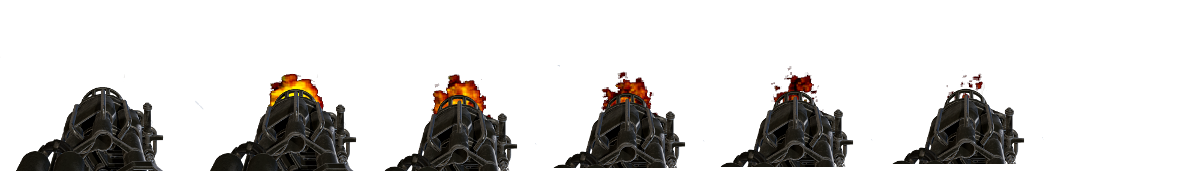
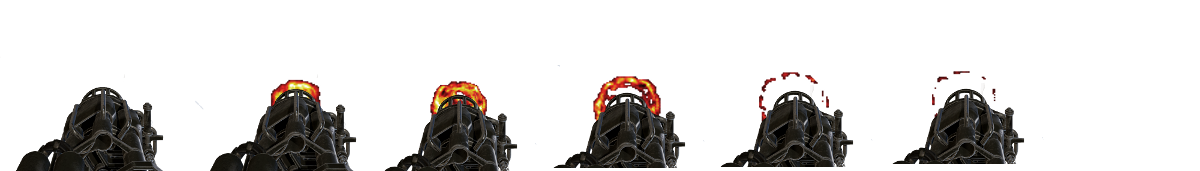
rocket and projectile wip

diff --git a/src/state/GameState.js b/src/state/GameState.js
@@ -146,6 +146,52 @@ class GameState {
       friction: 0.1
     })
 
+    //boxes
+    this.addGameObject( BoxScenery, {
+      position: { x: 0, y: 2, z: -20 },
+      size: { x: 2, y: 2, z: 2 },
+      textureUrl: '/assets/textures/wood floor 2.png',
+      textureRepeat: [ 1, 1 ],
+      friction: 0.5,
+      mass: 25,
+    })
+
+    this.addGameObject( BoxScenery, {
+      position: { x: 0, y: 4, z: -20 },
+      size: { x: 2, y: 2, z: 2 },
+      textureUrl: '/assets/textures/wood floor 2.png',
+      textureRepeat: [ 1, 1 ],
+      friction: 0.8,
+      mass: 25,
+    })
+
+    this.addGameObject( BoxScenery, {
+      position: { x: -2, y: 2, z: -20 },
+      size: { x: 2, y: 2, z: 2 },
+      textureUrl: '/assets/textures/wood floor 2.png',
+      textureRepeat: [ 1, 1 ],
+      friction: 0.8,
+      mass: 25,
+    })
+
+    this.addGameObject( BoxScenery, {
+      position: { x: -2, y: 4, z: -20 },
+      size: { x: 2, y: 2, z: 2 },
+      textureUrl: '/assets/textures/wood floor 2.png',
+      textureRepeat: [ 1, 1 ],
+      friction: 0.8,
+      mass: 25,
+    })
+
+    this.addGameObject( BoxScenery, {
+      position: { x: -2, y: 6, z: -20 },
+      size: { x: 2, y: 2, z: 2 },
+      textureUrl: '/assets/textures/wood floor 2.png',
+      textureRepeat: [ 1, 1 ],
+      friction: 0.8,
+      mass: 25,
+    })
+
     //enemies
     this.addGameObject( Soldier, {
       position: { x: 0, y: 2.25, z: -45 },
@@ -155,7 +201,7 @@ class GameState {
     })
 
     this.addGameObject( Monster, {
-      position: { x: 0, y: 2.25, z: -8 },
+      position: { x: 0, y: 2.25, z: -28 },
       patrol: false
     })
 
@@ -224,9 +270,13 @@ class GameState {
 
   getGameObjectsInRange( position, range ) {
     const rangeSquared = range * range
-    return this.gameObjects.filter( gameObject => {
-      return gameObject.sceneObject.position.distanceToSquared( position ) <= rangeSquared
-    })
+    return this.gameObjects.reduce(( results, gameObject ) => {
+      const distSq = gameObject.sceneObject.position.distanceToSquared( position )
+      if ( distSq <= rangeSquared ) {
+        results.push({ gameObject, distance: Math.sqrt( distSq )})
+      }
+      return results
+    }, [])
   }
 }
 

diff --git a/src/state/Projectile/Rocket.js b/src/state/Projectile/Rocket.js
@@ -1,23 +1,30 @@
 import BaseProjectile from './BaseProjectile'
 import SpecialEffect, { EffectTypes } from '../SpecialEffect'
+import GameObjectTypes from '../../shared/enum/GameObjectTypes'
+
+const DAMAGE_RANGE = 14
+const MAX_DAMAGE = 100
+const MAX_FORCE = 20000
 
 class Rocket extends BaseProjectile {
   constructor( props ) {
     super({
       ...props,
       textureUrl: '/assets/sprites/rocket.png',
-      textureScale: [ 1/8, 1 ],
+      textureScale: [ 1/8, 1/2 ],
       size: 1,
       mass: 15,
-      speed: 35,
+      speed: 25,
       animationDefs: {
         default: {
           frames: [
             { u: 0, v: 0 },
+            { u: 0, v: 0.5 },
           ],
-          duration: 1000,
+          duration: 100,
           isDirectional: true,
           directionalOffset: 1/8,
+          loop: true,
         },
       },
     })
@@ -29,6 +36,29 @@ class Rocket extends BaseProjectile {
     this.gameState.addGameObject( SpecialEffect, {
       effectType: EffectTypes.LargeExplosion,
       position: shiftedPosition,
+    })
+
+    this.gameState.getGameObjectsInRange( this.sceneObject.position, DAMAGE_RANGE ).forEach(({ gameObject, distance }) => {
+      const inverseNormalizedDist = 1 - ( distance / DAMAGE_RANGE )
+      if ( gameObject === this ) {
+        return
+      }
+
+      if ( gameObject.components.health ) {
+        gameObject.components.health.takeDamage( Math.floor( MAX_DAMAGE *  inverseNormalizedDist ))
+      }
+
+      if ( gameObject.sceneObject.applyCentralForce ) {
+        const direction = gameObject.sceneObject.position
+          .clone()
+          .sub ( this.sceneObject.position )
+
+        // Dampen the vertical impulse
+        if ( gameObject.type !== GameObjectTypes.Scenery ) {
+          direction.y *= 0.25
+        }
+        gameObject.sceneObject.applyCentralForce( direction.normalize().multiplyScalar( MAX_FORCE * inverseNormalizedDist ))
+      }
     })
   }
 }

diff --git a/src/state/Projectile/Fireball.js b/src/state/Projectile/Fireball.js
@@ -1,0 +1,44 @@
+import BaseProjectile from './BaseProjectile'
+import SpecialEffect, { EffectTypes } from '../SpecialEffect'
+
+const DAMAGE = 10
+
+class Fireball extends BaseProjectile {
+  constructor( props ) {
+    super({
+      ...props,
+      textureUrl: '/assets/sprites/fireball.png',
+      textureScale: [ 1/8, 1 ],
+      size: 0.5,
+      mass: 15,
+      speed: 15,
+      animationDefs: {
+        default: {
+          frames: [
+            { u: 2/8, v: 0 },
+            { u: 7/8, v: 0 },
+          ],
+          duration: 200,
+          loop: true,
+          isDirectional: true,
+          directionalOffset: 1/8,
+        },
+      },
+    })
+  }
+
+  handleCollision( otherObject ) {
+    const shiftedPosition = this.sceneObject.position.clone()
+    shiftedPosition.sub( this.direction.clone().multiplyScalar( 1 ))
+    this.gameState.addGameObject( SpecialEffect, {
+      effectType: EffectTypes.FireballImpact,
+      position: shiftedPosition,
+    })
+
+    if ( otherObject.gameObject.components.health ) {
+      otherObject.gameObject.components.health.takeDamage( DAMAGE )
+    }
+  }
+}
+
+export default Fireball

diff --git a/src/state/SpecialEffect.js b/src/state/SpecialEffect.js
@@ -8,7 +8,8 @@ export const EffectTypes = {
   EnemyHit: 'EnemyHit',
   EnemyHit2: 'EnemyHit2',
   Sparks: 'Sparks',
-  LargeExplosion: 'LargeExplosion'
+  LargeExplosion: 'LargeExplosion',
+  FireballImpact: 'FireballImpact',
 }
 
 const SPARK_OFFSET = 0.081
@@ -106,6 +107,26 @@ const effectDefs = {
           { u: 6/8, v: 0 },
         ],
         duration: 500,
+        loop: false,
+      },
+    },
+  },
+  [ EffectTypes.FireballImpact ]: {
+    textureUrl: '/assets/sprites/fireball.png',
+    textureScale: [ 1/8, 1 ],
+    size: 2,
+    randomRotation: false,
+    animationDefs: {
+      default: {
+        frames: [
+          { u: 1/8, v: 0 },
+          { u: 2/8, v: 0 },
+          { u: 3/8, v: 0 },
+          { u: 4/8, v: 0 },
+          { u: 5/8, v: 0 },
+          { u: 6/8, v: 0 },
+        ],
+        duration: 300,
         loop: false,
       },
     },

diff --git a/src/state/Monster.js b/src/state/Monster.js
@@ -1,5 +1,7 @@
 import Enemy from './Enemy'
+import Fireball from './Projectile/Fireball'
 
+const ATTACK_DELAY = 300
 
 const animationDefs = {
   walk: {
@@ -83,7 +85,18 @@ class Monster extends Enemy {
   }
 
   doAttack = () => {
-    //todo
+    setTimeout(() => {
+      if ( this.components.aiLogic.isAttacking()) {
+        const fireballStartOffset = 3
+        const position = this.sceneObject.position.clone()
+        position.add( this.direction.multiplyScalar( fireballStartOffset ))
+
+        this.gameState.addGameObject( Fireball, {
+          position,
+          direction: this.direction.clone()
+        })
+      }
+    }, ATTACK_DELAY )
   }
 }
 

diff --git a/src/state/BoxScenery.js b/src/state/BoxScenery.js
@@ -19,7 +19,8 @@ class BoxScenery extends GameObject {
       position,
       rotation,
       textureRepeat = [ 1, 1 ],
-      friction
+      friction,
+      mass = 0
     } = this.props
     
     const texture = new THREE.TextureLoader().load( textureUrl )
@@ -40,7 +41,7 @@ class BoxScenery extends GameObject {
     const box = new Physijs.BoxMesh(
       new THREE.BoxGeometry( size.x, size.y, size.z ),
       material,
-      0 //Zero mass means immovable object
+      mass //Zero mass means immovable object
     );
     box.position.set( position.x, position.y, position.z )
     if ( rotation ) {

diff --git a/src/state/PlayerWeapon/BaseWeapon.js b/src/state/PlayerWeapon/BaseWeapon.js
@@ -111,7 +111,7 @@ export default class BaseWeapon {
   }
 
   alertNearbyEnemies() {
-    this.gameState.getGameObjectsInRange( this.player.sceneObject.position, this.alertNearbyEnemyRange ).forEach( gameObject => {
+    this.gameState.getGameObjectsInRange( this.player.sceneObject.position, this.alertNearbyEnemyRange ).forEach(({ gameObject }) => {
       if ( gameObject.type === GameObjectTypes.Enemy ) {
         gameObject.components.aiLogic.noticePlayer()
       }

diff --git a/src/state/Projectile/BaseProjectile.js b/src/state/Projectile/BaseProjectile.js
@@ -67,8 +67,11 @@ class BaseProjectile extends GameObject {
   }
 
   onCollision( otherObject, velocity, angularVelocity, normal, contactPoints, impulse ) {
-    this.handleCollision( otherObject, velocity, angularVelocity )
-    this.remove()
+    if ( !this.collided ) {
+      this.handleCollision( otherObject, velocity, angularVelocity )
+      this.remove()
+      this.collided = true
+    }
   }
 }
 

diff --git a/src/state/components/Health.js b/src/state/components/Health.js
@@ -5,6 +5,7 @@ import {
 } from 'mobx'
 
 const TAKING_DAMAGE_DURATION = 100
+const EXPLODE_THRESHOLD = 55
 
 class Health {
 
@@ -33,7 +34,7 @@ class Health {
           this.parent.components.aiLogic.onTakeDamage()
         }
         else {
-          this.parent.components.aiLogic.onDeath()
+          this.parent.components.aiLogic.onDeath( damageAmount > EXPLODE_THRESHOLD )
         }
       }
     }

diff --git a/src/state/Player.js b/src/state/Player.js
@@ -48,9 +48,9 @@ class Player extends GameObject {
       startingHealth: 100
     }))
 
-    this.addWeapon( WeaponIds.RocketLauncher, 500 )
     this.addWeapon( WeaponIds.MachineGun, 500 )
     this.addWeapon( WeaponIds.Shotgun, 500 )
+    this.addWeapon( WeaponIds.RocketLauncher, 500 )
   }
 
   attachCamera() {

diff --git a/public/external_js/physijs_worker.js b/public/external_js/physijs_worker.js
@@ -495,6 +495,9 @@ public_functions.applyEngineForce = function( details ) {
 };
 
 public_functions.removeObject = function( details ) {
+	if (!_objects[details.id]) {
+		return
+	}
 	world.removeRigidBody( _objects[details.id] );
 	Ammo.destroy(_objects[details.id]);
 	Ammo.destroy(_motion_states[details.id]);

diff --git a/src/state/Enemy.js b/src/state/Enemy.js
@@ -9,7 +9,7 @@ import Health from './components/Health'
 import SpriteAnimation from './components/SpriteAnimation'
 import { disableRotation } from '../shared/physicsUtils'
 
-const FRICTION = 3
+const FRICTION = 1
 const RESTITUTION = 0
 const SHOW_DEBUG_VOLUMES = false
 
